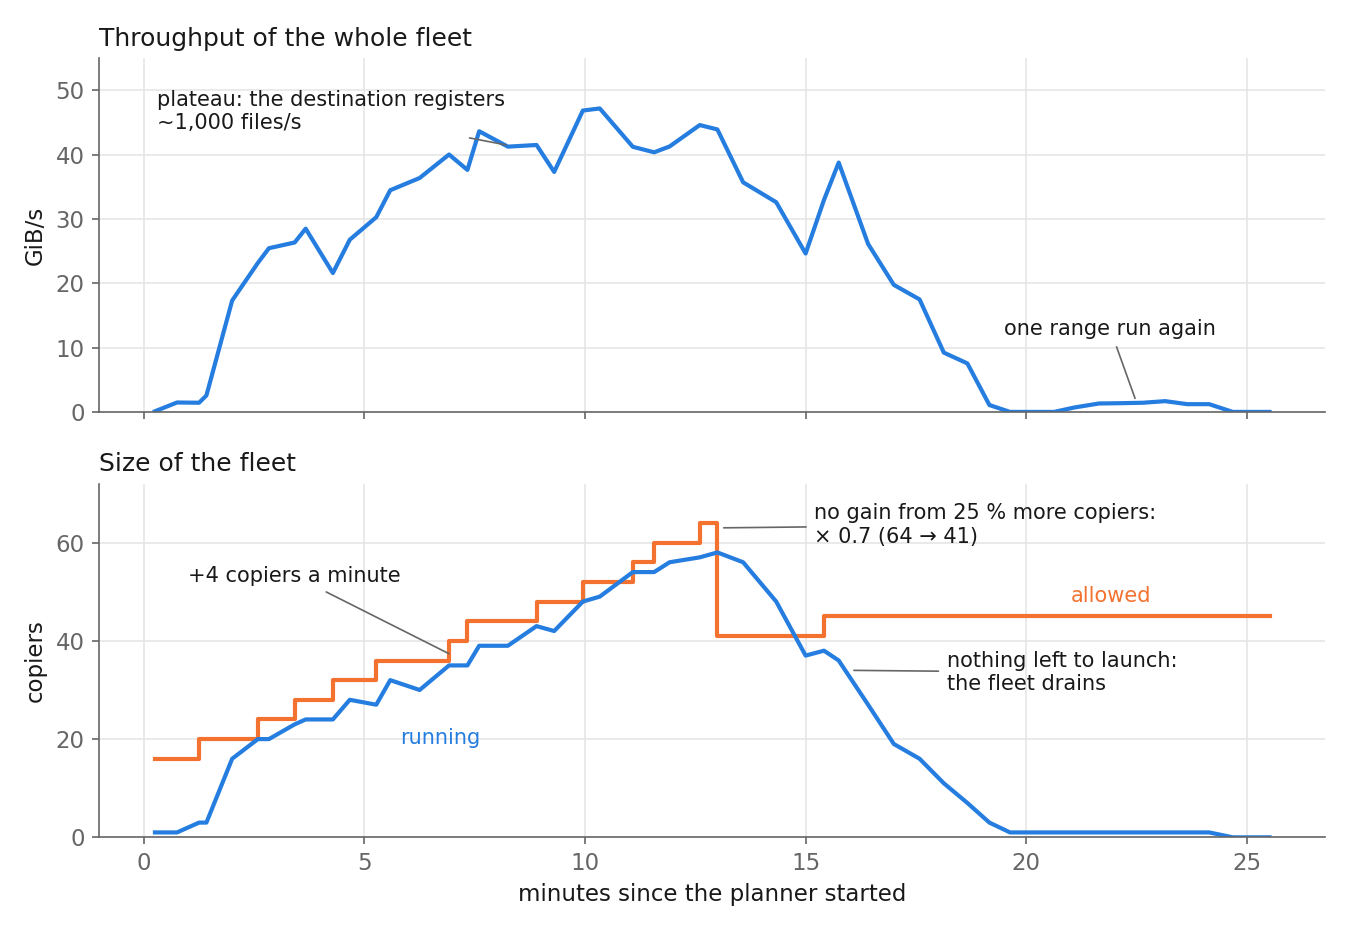
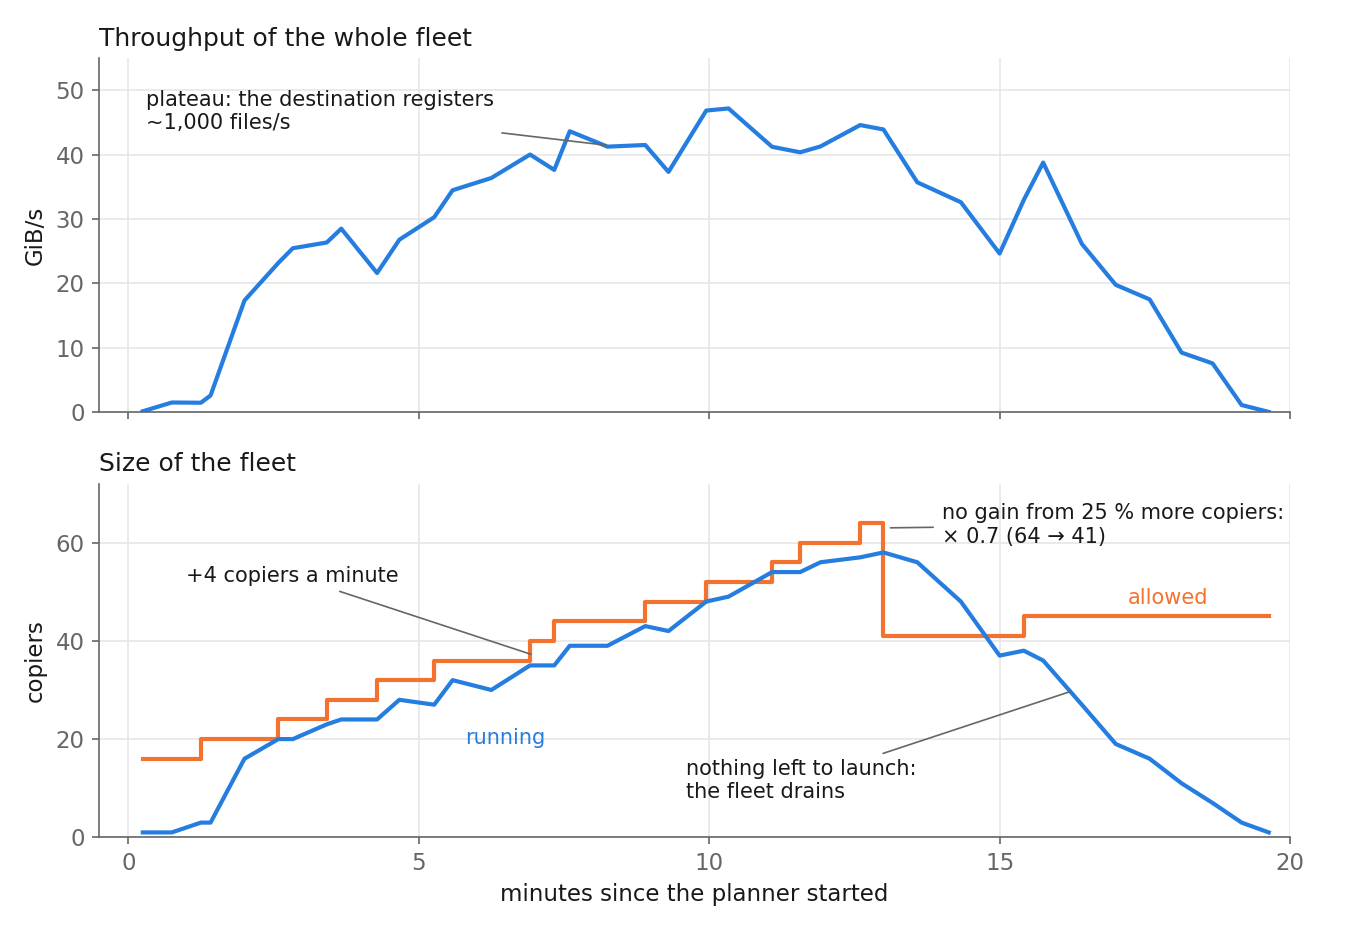
docs(images): show the first 20 minutes of the copy, without the late retry

diff --git a/docs/images/plot_fleet.py b/docs/images/plot_fleet.py
@@ -58,8 +58,8 @@ def note(ax, text, xy, xytext):
 
 
 def timeline():
-    """One copy, from the planner's start to its end."""
-    rows = load("goes18-2024.csv")
+    """One copy, its first 20 minutes: the fleet grows, holds, is cut, then drains."""
+    rows = [r for r in load("goes18-2024.csv") if r["t_s"] <= 20 * 60]
     t = [r["t_s"] / 60 for r in rows]
     fig, (top, bottom) = plt.subplots(2, 1, sharex=True, figsize=(9, 6.2))
 
@@ -68,7 +68,6 @@ def timeline():
     top.set_title("Throughput of the whole fleet", loc="left", color=TEXT, fontsize=12)
     top.set_ylim(0, 55)
     note(top, "plateau: the destination registers\n~1,000 files/s", (8.3, 41.4), (0.3, 44))
-    note(top, "one range run again", (22.5, 1.5), (19.5, 12))
 
     bottom.step(t, [r["target"] for r in rows], where="post", color=ORANGE, lw=2)
     bottom.plot(t, [r["running"] for r in rows], color=BLUE, lw=2)
@@ -76,11 +75,13 @@ def timeline():
     bottom.set_xlabel("minutes since the planner started")
     bottom.set_title("Size of the fleet", loc="left", color=TEXT, fontsize=12)
     bottom.set_ylim(0, 72)
-    bottom.text(21.0, 48, "allowed", color=ORANGE, fontsize=10)
+    bottom.set_xlim(-0.5, 20)
+    bottom.set_xticks(range(0, 21, 5))
+    bottom.text(17.2, 47.5, "allowed", color=ORANGE, fontsize=10)
     bottom.text(5.8, 19, "running", color=BLUE, fontsize=10)
     note(bottom, "+4 copiers a minute", (7.0, 37), (1.0, 52))
-    note(bottom, "no gain from 25 % more copiers:\n× 0.7 (64 → 41)", (13.05, 63), (15.2, 60))
-    note(bottom, "nothing left to launch:\nthe fleet drains", (16.0, 34), (18.2, 30))
+    note(bottom, "no gain from 25 % more copiers:\n× 0.7 (64 → 41)", (13.05, 63), (14.0, 60))
+    note(bottom, "nothing left to launch:\nthe fleet drains", (16.3, 30), (9.6, 8))
 
     fig.tight_layout()
     fig.savefig(HERE / "fleet-timeline.png", dpi=150)
